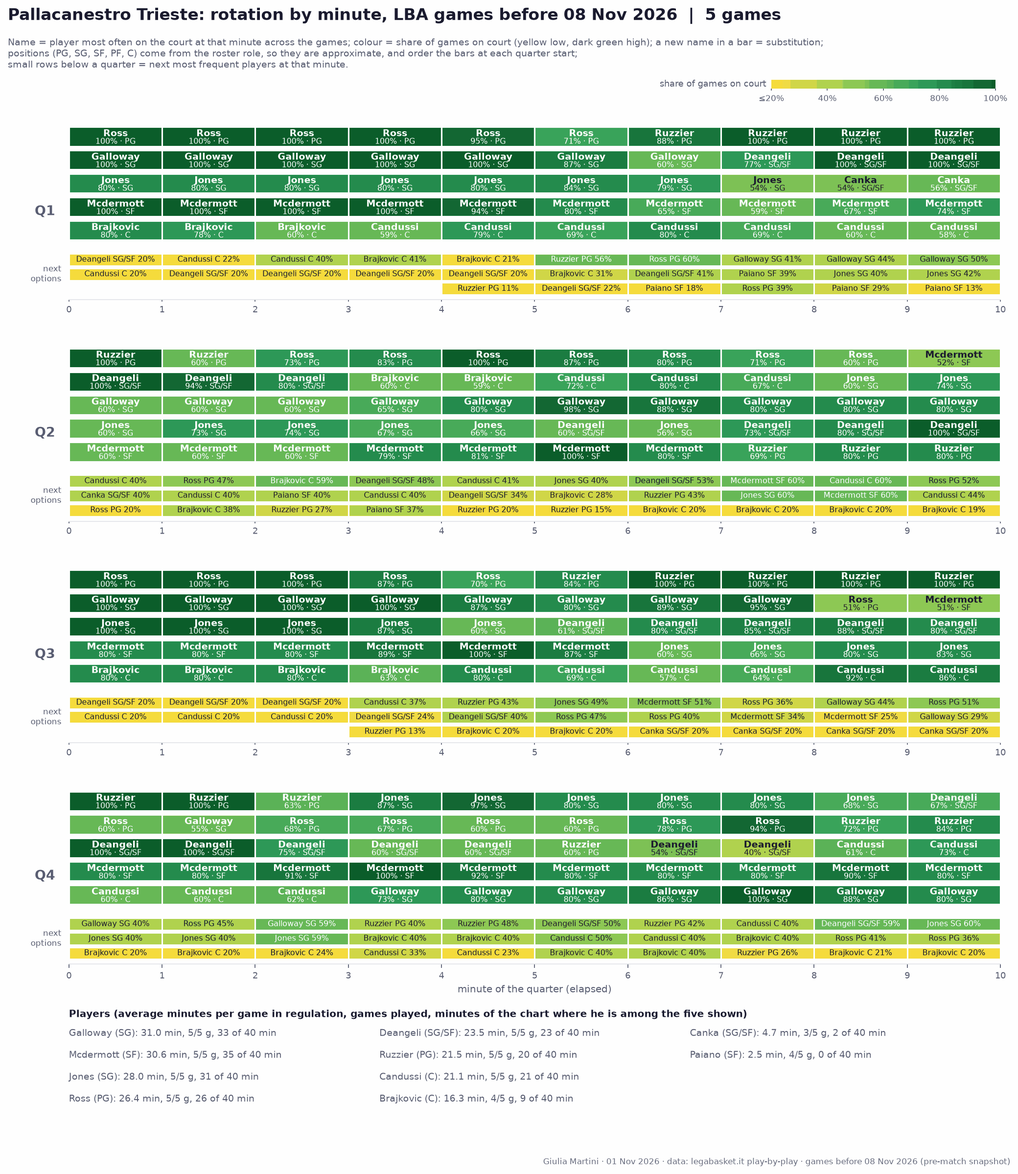
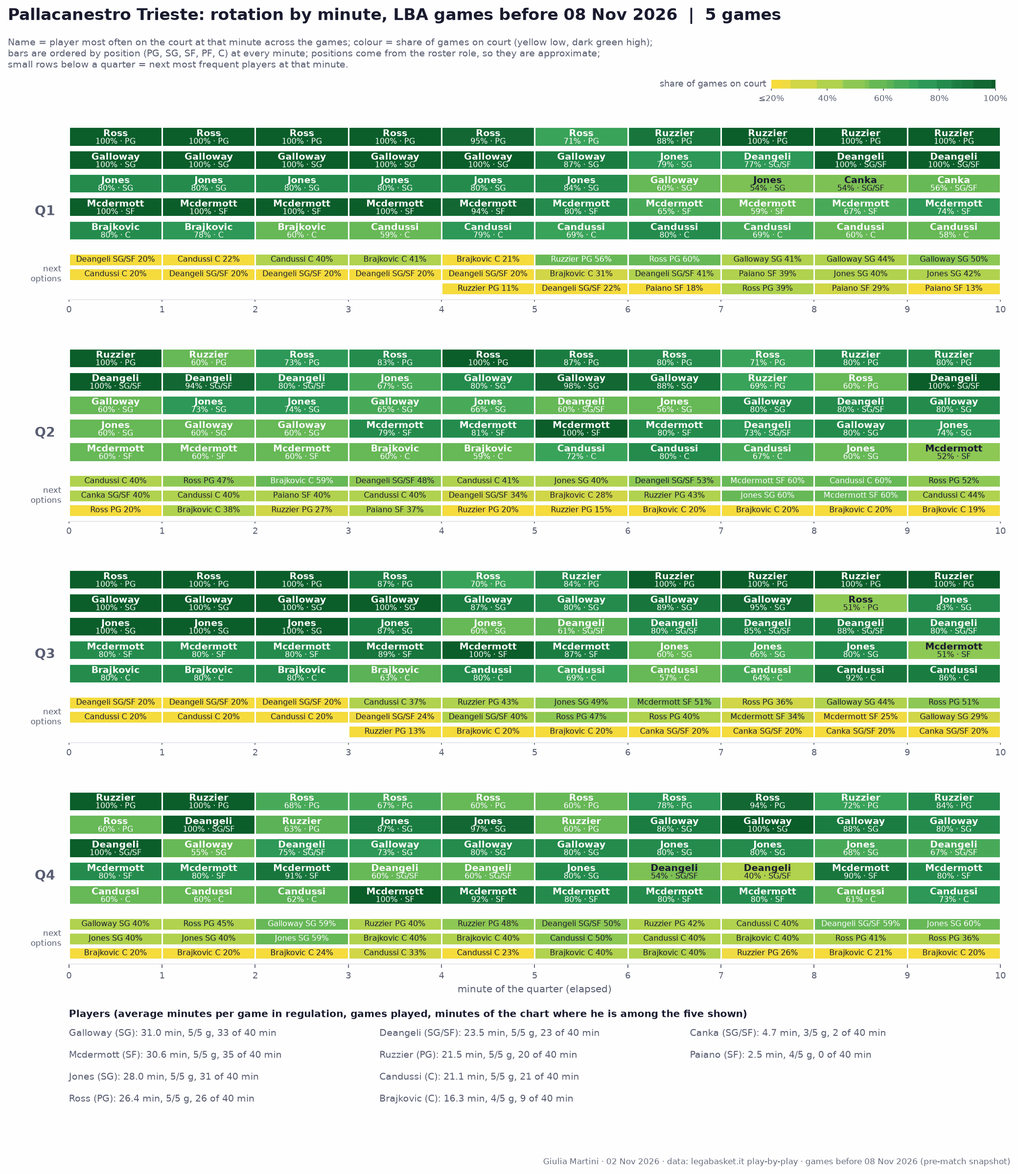
Rotation by minute: bars ordered by role at every minute; interactive HTML version with role-based alternatives, shown on the PAOK and Trieste pages

diff --git a/reports/matchup_Paok_Thessaloniki_vs_BC_Roma_before_2026-11-03/13_rotation_by_minute.html b/reports/matchup_Paok_Thessaloniki_vs_BC_Roma_before_2026-11-03/13_rotation_by_minute.html
@@ -1,0 +1,63 @@
+<!doctype html>
+<html lang="en"><head><meta charset="utf-8"><title>Paok Thessaloniki: rotation by minute, EuroCup games before 03 Nov 2026 | 5 games</title>
+<style>
+body{font:13px system-ui,sans-serif;color:#1a1a2e;margin:16px 24px;background:#fff}
+h1{font-size:20px;margin:0 0 4px}p.note{color:#555a6e;margin:0 0 14px;max-width:900px}
+.q{display:grid;grid-template-columns:36px repeat(10,1fr);gap:2px;margin-bottom:18px}
+.ql{font-weight:700;font-size:15px;color:#555a6e;display:flex;align-items:center}
+.cell{border-radius:3px;padding:5px 2px;text-align:center;cursor:default;line-height:1.25;min-width:0;overflow:hidden}
+.cell b{display:block;font-size:12px;white-space:nowrap}.cell span{font-size:10px;opacity:.9}
+.cell.dim{opacity:.25}.cell.same{outline:3px solid #1a1a2e;outline-offset:-2px}
+.mh{grid-column:2/-1;display:grid;grid-template-columns:repeat(10,1fr);color:#777;font-size:10px;text-align:center}
+#tip{position:fixed;display:none;background:#fff;border:1px solid #c9ccd6;border-radius:6px;padding:8px 10px;
+box-shadow:0 4px 16px rgba(0,0,0,.2);pointer-events:none;z-index:9;min-width:230px;max-width:290px}
+#tip h3{margin:0 0 2px;font-size:13px}#tip .sub{color:#777;font-size:11px;margin-bottom:6px}
+#tip table{border-collapse:collapse;width:100%}#tip td{padding:2px 4px;font-size:12px}
+#tip td.p{color:#555a6e;width:46px}#tip td.s{text-align:right;width:44px;font-variant-numeric:tabular-nums}
+#tip tr.same td{font-weight:700}#tip .bar{display:inline-block;height:8px;border-radius:2px;vertical-align:middle}
+.legend{display:flex;align-items:center;gap:6px;margin:0 0 14px;color:#555a6e;font-size:11px}
+.legend i{display:inline-block;width:160px;height:8px;background:linear-gradient(90deg,rgb(247,220,60),rgb(155,207,83),rgb(46,158,91),rgb(11,93,42))}
+</style></head><body>
+<h1>Paok Thessaloniki: rotation by minute, EuroCup games before 03 Nov 2026 | 5 games</h1>
+<p class="note">Rows = positions (PG, SG, SF, PF, C) at every minute; colour = share of games on court. Hover a player: the
+tooltip lists the other options at that minute, same role first (then neighbouring roles), with their share of games on court.
+Positions come from the roster role, so they are approximate.</p>
+<div class="legend">20% or less <i></i> 100%</div><div id="quarters"></div><div id="tip"></div>
+<script>
+const D={"quarters": [[{"lanes": [["Calathes", 0.6], ["Mitrou Long", 0.4], ["Osman", 1.0], ["Gray", 1.0], ["Alexander", 0.8]], "alts": [["Hudgins", 0.4], ["Foster", 0.2], ["Tyree", 0.2], ["Bazinas", 0.2], ["Motiejunas", 0.2]]}, {"lanes": [["Calathes", 0.6], ["Mitrou Long", 0.4], ["Osman", 1.0], ["Gray", 1.0], ["Alexander", 0.8]], "alts": [["Hudgins", 0.4], ["Foster", 0.2], ["Tyree", 0.2], ["Bazinas", 0.2], ["Motiejunas", 0.2]]}, {"lanes": [["Calathes", 0.6], ["Mitrou Long", 0.4], ["Osman", 1.0], ["Gray", 1.0], ["Alexander", 0.8]], "alts": [["Hudgins", 0.4], ["Foster", 0.2], ["Tyree", 0.2], ["Bazinas", 0.2], ["Motiejunas", 0.2]]}, {"lanes": [["Calathes", 0.6], ["Mitrou Long", 0.4], ["Osman", 1.0], ["Gray", 0.82], ["Alexander", 0.8]], "alts": [["Foster", 0.32333333333333336], ["Hudgins", 0.27666666666666667], ["Tyree", 0.2], ["Bazinas", 0.2], ["Moore", 0.18], ["Chougkaz", 0.18], ["Motiejunas", 0.02]]}, {"lanes": [["Calathes", 0.6033333333333333], ["Foster", 0.4], ["Osman", 1.0], ["Gray", 0.8], ["Alexander", 0.8]], "alts": [["Mitrou Long", 0.4], ["Bazinas", 0.22666666666666666], ["Tyree", 0.2], ["Moore", 0.2], ["Chougkaz", 0.2], ["Hudgins", 0.16999999999999998]]}, {"lanes": [["Foster", 0.4766666666666667], ["Mitrou Long", 0.4], ["Osman", 1.0], ["Gray", 0.7866666666666666], ["Alexander", 0.63]], "alts": [["Bazinas", 0.4], ["Moore", 0.37], ["Hudgins", 0.36333333333333334], ["Calathes", 0.23666666666666666], ["Chougkaz", 0.2], ["Tyree", 0.12333333333333334], ["Persidis", 0.013333333333333332]]}, {"lanes": [["Hudgins", 0.4666666666666667], ["Foster", 0.6166666666666667], ["Osman", 0.9333333333333333], ["Gray", 0.5933333333333334], ["Alexander", 0.5333333333333333]], "alts": [["Moore", 0.4], ["Bazinas", 0.4], ["Mitrou Long", 0.27], ["Calathes", 0.2], ["Chougkaz", 0.2], ["Persidis", 0.2], ["Tyree", 0.11333333333333333], ["Motiejunas", 0.07333333333333333]]}, {"lanes": [["Hudgins", 0.6], ["Foster", 0.6], ["Mitrou Long", 0.4333333333333333], ["Osman", 0.53], ["Moore", 0.48666666666666664]], "alts": [["Motiejunas", 0.4], ["Tyree", 0.32333333333333336], ["Alexander", 0.31333333333333335], ["Bazinas", 0.31333333333333335], ["Gray", 0.3066666666666667], ["Chougkaz", 0.29333333333333333], ["Calathes", 0.2], ["Persidis", 0.2]]}, {"lanes": [["Tyree", 0.6799999999999999], ["Hudgins", 0.6], ["Foster", 0.6799999999999999], ["Mitrou Long", 0.49000000000000005], ["Moore", 0.5733333333333334]], "alts": [["Chougkaz", 0.4], ["Motiejunas", 0.4], ["Osman", 0.22999999999999998], ["Alexander", 0.22666666666666666], ["Calathes", 0.2], ["Bazinas", 0.2], ["Persidis", 0.2], ["Gray", 0.12]]}, {"lanes": [["Tyree", 0.6966666666666667], ["Foster", 0.8], ["Calathes", 0.5599999999999999], ["Chougkaz", 0.5333333333333333], ["Moore", 0.4666666666666667]], "alts": [["Mitrou Long", 0.4], ["Motiejunas", 0.4], ["Hudgins", 0.3433333333333333], ["Osman", 0.2], ["Alexander", 0.2], ["Bazinas", 0.2], ["Persidis", 0.2]]}], [{"lanes": [["Tyree", 0.6], ["Foster", 0.8], ["Calathes", 0.8], ["Mitrou Long", 0.6], ["Chougkaz", 0.6]], "alts": [["Alexander", 0.43], ["Moore", 0.4], ["Osman", 0.2033333333333333], ["Bazinas", 0.2], ["Persidis", 0.19666666666666666], ["Motiejunas", 0.16999999999999998]]}, {"lanes": [["Tyree", 0.71], ["Foster", 0.8], ["Calathes", 0.6900000000000001], ["Mitrou Long", 0.6], ["Alexander", 0.7733333333333333]], "alts": [["Chougkaz", 0.5333333333333333], ["Moore", 0.22666666666666666], ["Osman", 0.2], ["Bazinas", 0.2], ["Persidis", 0.2], ["Gray", 0.06666666666666667]]}, {"lanes": [["Tyree", 0.7266666666666667], ["Foster", 0.8], ["Calathes", 0.6], ["Mitrou Long", 0.49333333333333335], ["Alexander", 0.8]], "alts": [["Gray", 0.33333333333333337], ["Chougkaz", 0.29], ["Osman", 0.2733333333333333], ["Moore", 0.2], ["Bazinas", 0.2], ["Persidis", 0.17666666666666667], ["Hudgins", 0.10666666666666666]]}, {"lanes": [["Tyree", 0.61], ["Foster", 0.79], ["Calathes", 0.6], ["Gray", 0.6], ["Alexander", 0.8866666666666667]], "alts": [["Osman", 0.4], ["Mitrou Long", 0.4], ["Hudgins", 0.2], ["Bazinas", 0.2], ["Chougkaz", 0.2], ["Moore", 0.11333333333333333]]}, {"lanes": [["Tyree", 0.6], ["Foster", 0.5966666666666667], ["Osman", 0.6766666666666666], ["Gray", 0.65], ["Alexander", 1.0]], "alts": [["Mitrou Long", 0.45666666666666667], ["Calathes", 0.45], ["Hudgins", 0.4066666666666666], ["Chougkaz", 0.15], ["Bazinas", 0.013333333333333332]]}, {"lanes": [["Tyree", 0.6], ["Hudgins", 0.6], ["Osman", 0.8], ["Gray", 0.6833333333333333], ["Alexander", 1.0]], "alts": [["Calathes", 0.51], ["Foster", 0.4], ["Mitrou Long", 0.29], ["Chougkaz", 0.11666666666666667]]}, {"lanes": [["Hudgins", 0.6], ["Mitrou Long", 0.5433333333333333], ["Osman", 0.9533333333333334], ["Gray", 0.6], ["Alexander", 0.7066666666666667]], "alts": [["Foster", 0.4333333333333333], ["Tyree", 0.27], ["Calathes", 0.24666666666666667], ["Moore", 0.2066666666666667], ["Chougkaz", 0.2], ["Bazinas", 0.15333333333333335], ["Motiejunas", 0.08666666666666667]]}, {"lanes": [["Hudgins", 0.6], ["Mitrou Long", 0.6], ["Osman", 1.0], ["Gray", 0.49000000000000005], ["Moore", 0.47333333333333333]], "alts": [["Foster", 0.35], ["Alexander", 0.32666666666666666], ["Chougkaz", 0.31], ["Tyree", 0.25], ["Calathes", 0.2], ["Bazinas", 0.2], ["Motiejunas", 0.2]]}, {"lanes": [["Hudgins", 0.6], ["Tyree", 0.53], ["Mitrou Long", 0.5133333333333334], ["Osman", 0.8699999999999999], ["Moore", 0.6433333333333333]], "alts": [["Gray", 0.4], ["Chougkaz", 0.4], ["Foster", 0.2866666666666667], ["Calathes", 0.24333333333333332], ["Motiejunas", 0.24333333333333332], ["Bazinas", 0.15666666666666668], ["Alexander", 0.11333333333333333]]}, {"lanes": [["Tyree", 0.5833333333333333], ["Hudgins", 0.43], ["Calathes", 0.6433333333333333], ["Osman", 0.8], ["Moore", 0.5433333333333333]], "alts": [["Gray", 0.4], ["Foster", 0.4], ["Chougkaz", 0.4], ["Motiejunas", 0.4], ["Mitrou Long", 0.2866666666666667], ["Alexander", 0.056666666666666664], ["Persidis", 0.056666666666666664]]}], [{"lanes": [["Foster", 0.6], ["Calathes", 0.6], ["Osman", 1.0], ["Gray", 0.8], ["Alexander", 0.6]], "alts": [["Tyree", 0.4], ["Moore", 0.4], ["Hudgins", 0.4], ["Chougkaz", 0.2]]}, {"lanes": [["Foster", 0.6133333333333334], ["Calathes", 0.6], ["Osman", 1.0], ["Gray", 0.8], ["Alexander", 0.6]], "alts": [["Moore", 0.4], ["Hudgins", 0.4], ["Tyree", 0.38666666666666666], ["Chougkaz", 0.2]]}, {"lanes": [["Foster", 0.8], ["Calathes", 0.6], ["Osman", 1.0], ["Gray", 0.8], ["Alexander", 0.4966666666666667]], "alts": [["Moore", 0.4], ["Hudgins", 0.2966666666666667], ["Tyree", 0.2], ["Chougkaz", 0.2], ["Bazinas", 0.10333333333333335], ["Motiejunas", 0.10333333333333335]]}, {"lanes": [["Foster", 0.8], ["Calathes", 0.6166666666666667], ["Osman", 1.0], ["Gray", 0.8], ["Moore", 0.43666666666666665]], "alts": [["Alexander", 0.36333333333333334], ["Bazinas", 0.21000000000000002], ["Tyree", 0.2], ["Chougkaz", 0.2], ["Motiejunas", 0.2], ["Hudgins", 0.17333333333333334]]}, {"lanes": [["Foster", 0.8], ["Calathes", 0.44000000000000006], ["Osman", 1.0], ["Gray", 0.8], ["Moore", 0.8]], "alts": [["Bazinas", 0.4], ["Tyree", 0.2], ["Chougkaz", 0.2], ["Motiejunas", 0.2], ["Hudgins", 0.16]]}, {"lanes": [["Tyree", 0.5433333333333333], ["Foster", 0.64], ["Gray", 0.97], ["Osman", 0.6666666666666667], ["Moore", 0.8066666666666666]], "alts": [["Calathes", 0.4], ["Bazinas", 0.4], ["Hudgins", 0.2], ["Motiejunas", 0.16], ["Persidis", 0.11000000000000001], ["Mitrou Long", 0.04], ["Alexander", 0.03333333333333333], ["Chougkaz", 0.03]]}, {"lanes": [["Tyree", 0.5833333333333333], ["Foster", 0.6166666666666667], ["Gray", 1.0], ["Osman", 0.4], ["Moore", 0.8]], "alts": [["Bazinas", 0.4], ["Calathes", 0.38333333333333336], ["Mitrou Long", 0.21666666666666665], ["Alexander", 0.2], ["Hudgins", 0.2], ["Persidis", 0.2]]}, {"lanes": [["Tyree", 0.4], ["Foster", 0.8], ["Gray", 0.8099999999999999], ["Osman", 0.5133333333333334], ["Moore", 0.8]], "alts": [["Mitrou Long", 0.4], ["Bazinas", 0.4], ["Alexander", 0.2], ["Calathes", 0.2], ["Hudgins", 0.2], ["Persidis", 0.2], ["Chougkaz", 0.07666666666666667]]}, {"lanes": [["Tyree", 0.4533333333333333], ["Mitrou Long", 0.7533333333333333], ["Osman", 0.6733333333333333], ["Gray", 0.47333333333333333], ["Moore", 0.6566666666666666]], "alts": [["Foster", 0.44666666666666666], ["Bazinas", 0.4], ["Alexander", 0.2], ["Calathes", 0.2], ["Hudgins", 0.2], ["Chougkaz", 0.2], ["Persidis", 0.2], ["Motiejunas", 0.14333333333333334]]}, {"lanes": [["Tyree", 0.6], ["Mitrou Long", 0.9533333333333334], ["Bazinas", 0.4], ["Osman", 0.8], ["Moore", 0.6]], "alts": [["Foster", 0.24666666666666667], ["Gray", 0.2], ["Alexander", 0.2], ["Calathes", 0.2], ["Hudgins", 0.2], ["Chougkaz", 0.2], ["Motiejunas", 0.2], ["Persidis", 0.2]]}], [{"lanes": [["Tyree", 0.6], ["Mitrou Long", 0.6], ["Osman", 0.8], ["Gray", 0.4], ["Moore", 0.61]], "alts": [["Calathes", 0.4], ["Bazinas", 0.4], ["Alexander", 0.39], ["Foster", 0.2], ["Hudgins", 0.2], ["Chougkaz", 0.2], ["Persidis", 0.2]]}, {"lanes": [["Tyree", 0.6], ["Mitrou Long", 0.5333333333333333], ["Osman", 0.8], ["Gray", 0.45666666666666667], ["Moore", 0.8]], "alts": [["Calathes", 0.4], ["Bazinas", 0.3433333333333333], ["Foster", 0.26666666666666666], ["Hudgins", 0.2566666666666667], ["Alexander", 0.2], ["Persidis", 0.2], ["Chougkaz", 0.14333333333333334]]}, {"lanes": [["Tyree", 0.6], ["Calathes", 0.4666666666666667], ["Osman", 0.8], ["Gray", 0.6599999999999999], ["Moore", 0.8]], "alts": [["Hudgins", 0.45999999999999996], ["Foster", 0.4], ["Mitrou Long", 0.4], ["Alexander", 0.2], ["Persidis", 0.13999999999999999], ["Bazinas", 0.07333333333333333]]}, {"lanes": [["Tyree", 0.7933333333333333], ["Foster", 0.5833333333333333], ["Gray", 0.8], ["Osman", 0.64], ["Moore", 0.6066666666666667]], "alts": [["Hudgins", 0.44000000000000006], ["Alexander", 0.3933333333333333], ["Mitrou Long", 0.37666666666666665], ["Calathes", 0.36666666666666664]]}, {"lanes": [["Tyree", 0.6666666666666667], ["Foster", 0.8366666666666667], ["Osman", 0.9099999999999999], ["Gray", 0.8], ["Moore", 0.6]], "alts": [["Alexander", 0.4], ["Hudgins", 0.4], ["Calathes", 0.2], ["Mitrou Long", 0.18666666666666668]]}, {"lanes": [["Tyree", 0.5599999999999999], ["Foster", 1.0], ["Osman", 1.0], ["Gray", 0.8], ["Moore", 0.6]], "alts": [["Alexander", 0.4], ["Hudgins", 0.4], ["Calathes", 0.24]]}, {"lanes": [["Tyree", 0.6366666666666666], ["Foster", 1.0], ["Osman", 0.9], ["Gray", 0.8], ["Moore", 0.6]], "alts": [["Alexander", 0.4], ["Hudgins", 0.33666666666666667], ["Calathes", 0.32666666666666666]]}, {"lanes": [["Tyree", 0.8], ["Foster", 1.0], ["Osman", 0.93], ["Gray", 0.67], ["Moore", 0.64]], "alts": [["Calathes", 0.4966666666666667], ["Alexander", 0.2633333333333333], ["Hudgins", 0.2]]}, {"lanes": [["Tyree", 0.93], ["Foster", 1.0], ["Calathes", 0.6], ["Osman", 1.0], ["Gray", 0.6]], "alts": [["Alexander", 0.4], ["Moore", 0.4], ["Hudgins", 0.05333333333333333], ["Bazinas", 0.016666666666666666]]}, {"lanes": [["Tyree", 0.9866666666666667], ["Foster", 0.9866666666666667], ["Calathes", 0.4533333333333333], ["Osman", 0.9866666666666667], ["Gray", 0.5866666666666667]], "alts": [["Alexander", 0.39666666666666667], ["Moore", 0.23666666666666666], ["Bazinas", 0.15666666666666668], ["Mitrou Long", 0.13333333333333333], ["Hudgins", 0.01]]}]], "pos": {"Hudgins": "PG", "Calathes": "SG", "Gray": "PF", "Osman": "PF", "Alexander": "C", "Bazinas": "SG", "Tyree": "PG", "Persidis": "SF", "Moore": "C", "Mitrou Long": "SG", "Foster": "SG", "Motiejunas": "C", "Chougkaz": "PF"}, "positions": ["PG", "SG", "SF", "PF", "C"], "low": 0.2, "darkBelow": 0.55, "stops": [[247, 220, 60], [155, 207, 83], [46, 158, 91], [11, 93, 42]]};
+const quarters=document.getElementById('quarters'),tip=document.getElementById('tip');
+const colour=v=>{const t=Math.max(0,Math.min(1,(v-D.low)/(1-D.low))),n=D.stops.length-1,i=Math.min(n-1,Math.floor(t*n)),f=t*n-i,
+a=D.stops[i],b=D.stops[i+1];return'rgb('+a.map((x,k)=>Math.round(x+(b[k]-x)*f)).join(',')+')'};
+const dist=(a,b)=>{if(!a||!b)return 9;return Math.min(...a.map(x=>Math.min(...b.map(y=>Math.abs(x-y)))))};
+const idx=l=>l?l.split('/').map(p=>D.positions.indexOf(p)):null;
+D.quarters.forEach((q,qi)=>{
+ const grid=document.createElement('div');grid.className='q';
+ const lab=document.createElement('div');lab.className='ql';lab.textContent='Q'+(qi+1);
+ const head=document.createElement('div');head.className='mh';
+ for(let k=0;k<10;k++){const s=document.createElement('span');s.textContent=k+'-'+(k+1);head.appendChild(s)}
+ grid.append(document.createElement('div'),head);
+ for(let lane=0;lane<5;lane++){
+  const l=document.createElement('div');l.className='ql';l.style.fontSize='11px';grid.appendChild(l);
+  q.forEach((minute,k)=>{
+   const [name,val]=minute.lanes[lane],c=document.createElement('div');c.className='cell';c.dataset.p=name;
+   c.style.background=colour(val);c.style.color=val<D.darkBelow?'#1a1a2e':'#fff';
+   c.innerHTML='<b>'+name+'</b><span>'+Math.round(val*100)+'%'+(D.pos[name]?' · '+D.pos[name]:'')+'</span>';
+   c.onmousemove=e=>show(e,c,name,val,minute,qi*10+k);c.onmouseleave=hide;grid.appendChild(c)});
+ }
+ quarters.appendChild(grid)});
+function show(e,cell,name,val,minute,m){
+ const me=idx(D.pos[name]);
+ const alts=val>=0.995?[]:minute.alts.map(([p,s])=>({p,s,d:dist(me,idx(D.pos[p]))})).sort((a,b)=>a.d-b.d||b.s-a.s);
+ const rows=alts.map(a=>'<tr'+(a.d===0?' class="same"':'')+'><td>'+a.p+'</td><td class="p">'+(D.pos[a.p]||'')+'</td><td class="s">'+
+ Math.round(a.s*100)+'%</td><td><span class="bar" style="width:'+Math.round(a.s*60)+'px;background:'+colour(a.s)+'"></span></td></tr>').join('');
+ const qn=Math.floor(m/10)+1,mn=m%10;
+ tip.innerHTML='<h3>'+name+' '+(D.pos[name]||'')+' - '+Math.round(val*100)+'%</h3><div class="sub">Q'+qn+', minute '+mn+'-'+(mn+1)+
+ (rows?'. Alternatives, same role first:</div><table>'+rows+'</table>':'. On court in every game: no alternatives.</div>');
+ document.querySelectorAll('.cell').forEach(x=>x.classList.toggle('dim',x.dataset.p!==name));
+ tip.style.display='block';
+ const w=tip.offsetWidth,h=tip.offsetHeight;
+ tip.style.left=Math.min(e.clientX+14,innerWidth-w-8)+'px';tip.style.top=Math.min(e.clientY+14,innerHeight-h-8)+'px';}
+const fit=()=>{try{window.frameElement.style.height=document.documentElement.scrollHeight+'px'}catch(e){}};
+fit();addEventListener('resize',fit);
+function hide(){tip.style.display='none';document.querySelectorAll('.cell').forEach(x=>x.classList.remove('dim'))}
+</script></body></html>

diff --git a/reports/matchup_Pallacanestro_Trieste_vs_BC_Roma_before_2026-11-08/13_rotation_by_minute.html b/reports/matchup_Pallacanestro_Trieste_vs_BC_Roma_before_2026-11-08/13_rotation_by_minute.html
@@ -1,0 +1,63 @@
+<!doctype html>
+<html lang="en"><head><meta charset="utf-8"><title>Pallacanestro Trieste: rotation by minute, LBA games before 08 Nov 2026 | 5 games</title>
+<style>
+body{font:13px system-ui,sans-serif;color:#1a1a2e;margin:16px 24px;background:#fff}
+h1{font-size:20px;margin:0 0 4px}p.note{color:#555a6e;margin:0 0 14px;max-width:900px}
+.q{display:grid;grid-template-columns:36px repeat(10,1fr);gap:2px;margin-bottom:18px}
+.ql{font-weight:700;font-size:15px;color:#555a6e;display:flex;align-items:center}
+.cell{border-radius:3px;padding:5px 2px;text-align:center;cursor:default;line-height:1.25;min-width:0;overflow:hidden}
+.cell b{display:block;font-size:12px;white-space:nowrap}.cell span{font-size:10px;opacity:.9}
+.cell.dim{opacity:.25}.cell.same{outline:3px solid #1a1a2e;outline-offset:-2px}
+.mh{grid-column:2/-1;display:grid;grid-template-columns:repeat(10,1fr);color:#777;font-size:10px;text-align:center}
+#tip{position:fixed;display:none;background:#fff;border:1px solid #c9ccd6;border-radius:6px;padding:8px 10px;
+box-shadow:0 4px 16px rgba(0,0,0,.2);pointer-events:none;z-index:9;min-width:230px;max-width:290px}
+#tip h3{margin:0 0 2px;font-size:13px}#tip .sub{color:#777;font-size:11px;margin-bottom:6px}
+#tip table{border-collapse:collapse;width:100%}#tip td{padding:2px 4px;font-size:12px}
+#tip td.p{color:#555a6e;width:46px}#tip td.s{text-align:right;width:44px;font-variant-numeric:tabular-nums}
+#tip tr.same td{font-weight:700}#tip .bar{display:inline-block;height:8px;border-radius:2px;vertical-align:middle}
+.legend{display:flex;align-items:center;gap:6px;margin:0 0 14px;color:#555a6e;font-size:11px}
+.legend i{display:inline-block;width:160px;height:8px;background:linear-gradient(90deg,rgb(247,220,60),rgb(155,207,83),rgb(46,158,91),rgb(11,93,42))}
+</style></head><body>
+<h1>Pallacanestro Trieste: rotation by minute, LBA games before 08 Nov 2026 | 5 games</h1>
+<p class="note">Rows = positions (PG, SG, SF, PF, C) at every minute; colour = share of games on court. Hover a player: the
+tooltip lists the other options at that minute, same role first (then neighbouring roles), with their share of games on court.
+Positions come from the roster role, so they are approximate.</p>
+<div class="legend">20% or less <i></i> 100%</div><div id="quarters"></div><div id="tip"></div>
+<script>
+const D={"quarters": [[{"lanes": [["Ross", 1.0], ["Galloway", 1.0], ["Jones", 0.8], ["Mcdermott", 1.0], ["Brajkovic", 0.8]], "alts": [["Deangeli", 0.2], ["Candussi", 0.2]]}, {"lanes": [["Ross", 1.0], ["Galloway", 1.0], ["Jones", 0.8], ["Mcdermott", 1.0], ["Brajkovic", 0.78]], "alts": [["Candussi", 0.22000000000000003], ["Deangeli", 0.2]]}, {"lanes": [["Ross", 1.0], ["Galloway", 1.0], ["Jones", 0.8], ["Mcdermott", 1.0], ["Brajkovic", 0.6]], "alts": [["Candussi", 0.4], ["Deangeli", 0.2]]}, {"lanes": [["Ross", 1.0], ["Galloway", 1.0], ["Jones", 0.8], ["Mcdermott", 1.0], ["Candussi", 0.5900000000000001]], "alts": [["Brajkovic", 0.41], ["Deangeli", 0.2]]}, {"lanes": [["Ross", 0.9533333333333334], ["Galloway", 1.0], ["Jones", 0.8], ["Mcdermott", 0.9366666666666668], ["Candussi", 0.79]], "alts": [["Brajkovic", 0.21000000000000002], ["Deangeli", 0.2], ["Ruzzier", 0.11000000000000001]]}, {"lanes": [["Ross", 0.71], ["Galloway", 0.8733333333333333], ["Jones", 0.8400000000000001], ["Mcdermott", 0.8], ["Candussi", 0.6933333333333334]], "alts": [["Ruzzier", 0.5599999999999999], ["Brajkovic", 0.3066666666666667], ["Deangeli", 0.21666666666666665]]}, {"lanes": [["Ruzzier", 0.8833333333333334], ["Jones", 0.7866666666666666], ["Galloway", 0.6], ["Mcdermott", 0.6533333333333333], ["Candussi", 0.8]], "alts": [["Ross", 0.6], ["Deangeli", 0.4133333333333334], ["Paiano", 0.17666666666666667], ["Canka", 0.06333333333333332], ["Brajkovic", 0.023333333333333334]]}, {"lanes": [["Ruzzier", 1.0], ["Deangeli", 0.77], ["Jones", 0.54], ["Mcdermott", 0.5866666666666667], ["Candussi", 0.6900000000000001]], "alts": [["Galloway", 0.4066666666666666], ["Paiano", 0.3933333333333333], ["Ross", 0.38666666666666666], ["Canka", 0.22666666666666666]]}, {"lanes": [["Ruzzier", 1.0], ["Deangeli", 1.0], ["Canka", 0.54], ["Mcdermott", 0.67], ["Candussi", 0.6]], "alts": [["Galloway", 0.44333333333333336], ["Jones", 0.4], ["Paiano", 0.2866666666666667], ["Ross", 0.06]]}, {"lanes": [["Ruzzier", 1.0], ["Deangeli", 1.0], ["Canka", 0.5633333333333334], ["Mcdermott", 0.74], ["Candussi", 0.5833333333333333]], "alts": [["Galloway", 0.4966666666666667], ["Jones", 0.4166666666666667], ["Paiano", 0.13333333333333333], ["Ross", 0.06666666666666667]]}], [{"lanes": [["Ruzzier", 1.0], ["Deangeli", 1.0], ["Galloway", 0.6], ["Jones", 0.6], ["Mcdermott", 0.6]], "alts": [["Candussi", 0.4], ["Canka", 0.4], ["Ross", 0.2], ["Brajkovic", 0.2]]}, {"lanes": [["Ruzzier", 0.5966666666666667], ["Deangeli", 0.9433333333333334], ["Jones", 0.7333333333333333], ["Galloway", 0.6], ["Mcdermott", 0.6]], "alts": [["Ross", 0.47000000000000003], ["Candussi", 0.4], ["Brajkovic", 0.38], ["Canka", 0.22000000000000003], ["Paiano", 0.056666666666666664]]}, {"lanes": [["Ross", 0.7266666666666667], ["Deangeli", 0.8], ["Jones", 0.7433333333333334], ["Galloway", 0.6], ["Mcdermott", 0.6]], "alts": [["Brajkovic", 0.5866666666666667], ["Paiano", 0.4], ["Ruzzier", 0.2733333333333333], ["Candussi", 0.27]]}, {"lanes": [["Ross", 0.8300000000000001], ["Jones", 0.6733333333333333], ["Galloway", 0.65], ["Mcdermott", 0.7933333333333333], ["Brajkovic", 0.6]], "alts": [["Deangeli", 0.4833333333333333], ["Candussi", 0.4], ["Paiano", 0.37], ["Ruzzier", 0.2]]}, {"lanes": [["Ross", 1.0], ["Galloway", 0.8], ["Jones", 0.6566666666666666], ["Mcdermott", 0.8099999999999999], ["Brajkovic", 0.5900000000000001]], "alts": [["Candussi", 0.41], ["Deangeli", 0.3433333333333333], ["Ruzzier", 0.2], ["Paiano", 0.19]]}, {"lanes": [["Ross", 0.8666666666666666], ["Galloway", 0.9800000000000001], ["Deangeli", 0.6], ["Mcdermott", 1.0], ["Candussi", 0.7166666666666667]], "alts": [["Jones", 0.4], ["Brajkovic", 0.2833333333333333], ["Ruzzier", 0.15333333333333335]]}, {"lanes": [["Ross", 0.8], ["Galloway", 0.8833333333333334], ["Jones", 0.5599999999999999], ["Mcdermott", 0.8033333333333333], ["Candussi", 0.8]], "alts": [["Deangeli", 0.5266666666666666], ["Ruzzier", 0.42666666666666664], ["Brajkovic", 0.2]]}, {"lanes": [["Ross", 0.7066666666666667], ["Ruzzier", 0.6933333333333334], ["Galloway", 0.8], ["Deangeli", 0.73], ["Candussi", 0.67]], "alts": [["Mcdermott", 0.6], ["Jones", 0.6], ["Brajkovic", 0.2]]}, {"lanes": [["Ruzzier", 0.8], ["Ross", 0.6], ["Deangeli", 0.8033333333333333], ["Galloway", 0.8], ["Jones", 0.6]], "alts": [["Candussi", 0.6], ["Mcdermott", 0.5966666666666667], ["Brajkovic", 0.2]]}, {"lanes": [["Ruzzier", 0.8], ["Deangeli", 1.0], ["Galloway", 0.8], ["Jones", 0.74], ["Mcdermott", 0.52]], "alts": [["Ross", 0.5166666666666667], ["Candussi", 0.43666666666666665], ["Brajkovic", 0.18666666666666668]]}], [{"lanes": [["Ross", 1.0], ["Galloway", 1.0], ["Jones", 1.0], ["Mcdermott", 0.8], ["Brajkovic", 0.8]], "alts": [["Deangeli", 0.2], ["Candussi", 0.2]]}, {"lanes": [["Ross", 1.0], ["Galloway", 1.0], ["Jones", 1.0], ["Mcdermott", 0.8], ["Brajkovic", 0.8]], "alts": [["Deangeli", 0.2], ["Candussi", 0.2]]}, {"lanes": [["Ross", 1.0], ["Galloway", 1.0], ["Jones", 1.0], ["Mcdermott", 0.8], ["Brajkovic", 0.8]], "alts": [["Deangeli", 0.2], ["Candussi", 0.2]]}, {"lanes": [["Ross", 0.8699999999999999], ["Galloway", 1.0], ["Jones", 0.8666666666666666], ["Mcdermott", 0.89], ["Brajkovic", 0.6266666666666667]], "alts": [["Candussi", 0.37333333333333335], ["Deangeli", 0.24333333333333332], ["Ruzzier", 0.13]]}, {"lanes": [["Ross", 0.6966666666666667], ["Galloway", 0.8699999999999999], ["Jones", 0.6], ["Mcdermott", 1.0], ["Candussi", 0.7966666666666666]], "alts": [["Ruzzier", 0.4333333333333333], ["Deangeli", 0.4], ["Brajkovic", 0.2033333333333333]]}, {"lanes": [["Ruzzier", 0.8433333333333334], ["Galloway", 0.8], ["Deangeli", 0.6133333333333334], ["Mcdermott", 0.8699999999999999], ["Candussi", 0.6933333333333334]], "alts": [["Jones", 0.49333333333333335], ["Ross", 0.4666666666666667], ["Brajkovic", 0.2], ["Canka", 0.02]]}, {"lanes": [["Ruzzier", 1.0], ["Galloway", 0.89], ["Deangeli", 0.8], ["Jones", 0.6], ["Candussi", 0.5733333333333334]], "alts": [["Mcdermott", 0.51], ["Ross", 0.4], ["Canka", 0.2], ["Brajkovic", 0.026666666666666665]]}, {"lanes": [["Ruzzier", 1.0], ["Galloway", 0.9466666666666667], ["Deangeli", 0.8533333333333333], ["Jones", 0.6599999999999999], ["Candussi", 0.64]], "alts": [["Ross", 0.36], ["Mcdermott", 0.33999999999999997], ["Canka", 0.2]]}, {"lanes": [["Ruzzier", 1.0], ["Ross", 0.51], ["Deangeli", 0.8800000000000001], ["Jones", 0.8], ["Candussi", 0.9199999999999999]], "alts": [["Galloway", 0.44333333333333336], ["Mcdermott", 0.24666666666666667], ["Canka", 0.2]]}, {"lanes": [["Ruzzier", 1.0], ["Jones", 0.8266666666666668], ["Deangeli", 0.8], ["Mcdermott", 0.5133333333333334], ["Candussi", 0.86]], "alts": [["Ross", 0.5066666666666666], ["Galloway", 0.29333333333333333], ["Canka", 0.2]]}], [{"lanes": [["Ruzzier", 1.0], ["Ross", 0.6], ["Deangeli", 1.0], ["Mcdermott", 0.8], ["Candussi", 0.6]], "alts": [["Galloway", 0.4], ["Jones", 0.4], ["Brajkovic", 0.2]]}, {"lanes": [["Ruzzier", 1.0], ["Deangeli", 1.0], ["Galloway", 0.55], ["Mcdermott", 0.8], ["Candussi", 0.6]], "alts": [["Ross", 0.45], ["Jones", 0.4], ["Brajkovic", 0.2]]}, {"lanes": [["Ross", 0.6799999999999999], ["Ruzzier", 0.63], ["Deangeli", 0.7466666666666667], ["Mcdermott", 0.9066666666666666], ["Candussi", 0.62]], "alts": [["Galloway", 0.5933333333333334], ["Jones", 0.5866666666666667], ["Brajkovic", 0.23666666666666666]]}, {"lanes": [["Ross", 0.6733333333333333], ["Jones", 0.8733333333333333], ["Galloway", 0.7266666666666667], ["Deangeli", 0.6], ["Mcdermott", 1.0]], "alts": [["Ruzzier", 0.4], ["Brajkovic", 0.4], ["Candussi", 0.32666666666666666]]}, {"lanes": [["Ross", 0.6], ["Jones", 0.9666666666666666], ["Galloway", 0.8], ["Deangeli", 0.6], ["Mcdermott", 0.9166666666666666]], "alts": [["Ruzzier", 0.4833333333333333], ["Brajkovic", 0.4], ["Candussi", 0.23333333333333334]]}, {"lanes": [["Ross", 0.6], ["Ruzzier", 0.6], ["Galloway", 0.8], ["Jones", 0.8], ["Mcdermott", 0.8]], "alts": [["Deangeli", 0.5033333333333333], ["Candussi", 0.4966666666666667], ["Brajkovic", 0.4]]}, {"lanes": [["Ross", 0.7766666666666666], ["Galloway", 0.8566666666666667], ["Jones", 0.8], ["Deangeli", 0.5433333333333333], ["Mcdermott", 0.8]], "alts": [["Ruzzier", 0.42333333333333334], ["Candussi", 0.4], ["Brajkovic", 0.4]]}, {"lanes": [["Ross", 0.9433333333333334], ["Galloway", 1.0], ["Jones", 0.8], ["Deangeli", 0.4], ["Mcdermott", 0.8]], "alts": [["Candussi", 0.4], ["Brajkovic", 0.4], ["Ruzzier", 0.2566666666666667]]}, {"lanes": [["Ruzzier", 0.7233333333333334], ["Galloway", 0.8766666666666667], ["Jones", 0.6766666666666666], ["Mcdermott", 0.9033333333333333], ["Candussi", 0.6133333333333334]], "alts": [["Deangeli", 0.5900000000000001], ["Ross", 0.4066666666666666], ["Brajkovic", 0.21000000000000002]]}, {"lanes": [["Ruzzier", 0.8366666666666667], ["Galloway", 0.8], ["Deangeli", 0.6733333333333333], ["Mcdermott", 0.8], ["Candussi", 0.7266666666666667]], "alts": [["Jones", 0.6], ["Ross", 0.36333333333333334], ["Brajkovic", 0.2]]}]], "pos": {"Deangeli": "SG/SF", "Mcdermott": "SF", "Candussi": "C", "Ross": "PG", "Galloway": "SG", "Canka": "SG/SF", "Jones": "SG", "Paiano": "SF", "Ruzzier": "PG", "Brajkovic": "C"}, "positions": ["PG", "SG", "SF", "PF", "C"], "low": 0.2, "darkBelow": 0.55, "stops": [[247, 220, 60], [155, 207, 83], [46, 158, 91], [11, 93, 42]]};
+const quarters=document.getElementById('quarters'),tip=document.getElementById('tip');
+const colour=v=>{const t=Math.max(0,Math.min(1,(v-D.low)/(1-D.low))),n=D.stops.length-1,i=Math.min(n-1,Math.floor(t*n)),f=t*n-i,
+a=D.stops[i],b=D.stops[i+1];return'rgb('+a.map((x,k)=>Math.round(x+(b[k]-x)*f)).join(',')+')'};
+const dist=(a,b)=>{if(!a||!b)return 9;return Math.min(...a.map(x=>Math.min(...b.map(y=>Math.abs(x-y)))))};
+const idx=l=>l?l.split('/').map(p=>D.positions.indexOf(p)):null;
+D.quarters.forEach((q,qi)=>{
+ const grid=document.createElement('div');grid.className='q';
+ const lab=document.createElement('div');lab.className='ql';lab.textContent='Q'+(qi+1);
+ const head=document.createElement('div');head.className='mh';
+ for(let k=0;k<10;k++){const s=document.createElement('span');s.textContent=k+'-'+(k+1);head.appendChild(s)}
+ grid.append(document.createElement('div'),head);
+ for(let lane=0;lane<5;lane++){
+  const l=document.createElement('div');l.className='ql';l.style.fontSize='11px';grid.appendChild(l);
+  q.forEach((minute,k)=>{
+   const [name,val]=minute.lanes[lane],c=document.createElement('div');c.className='cell';c.dataset.p=name;
+   c.style.background=colour(val);c.style.color=val<D.darkBelow?'#1a1a2e':'#fff';
+   c.innerHTML='<b>'+name+'</b><span>'+Math.round(val*100)+'%'+(D.pos[name]?' · '+D.pos[name]:'')+'</span>';
+   c.onmousemove=e=>show(e,c,name,val,minute,qi*10+k);c.onmouseleave=hide;grid.appendChild(c)});
+ }
+ quarters.appendChild(grid)});
+function show(e,cell,name,val,minute,m){
+ const me=idx(D.pos[name]);
+ const alts=val>=0.995?[]:minute.alts.map(([p,s])=>({p,s,d:dist(me,idx(D.pos[p]))})).sort((a,b)=>a.d-b.d||b.s-a.s);
+ const rows=alts.map(a=>'<tr'+(a.d===0?' class="same"':'')+'><td>'+a.p+'</td><td class="p">'+(D.pos[a.p]||'')+'</td><td class="s">'+
+ Math.round(a.s*100)+'%</td><td><span class="bar" style="width:'+Math.round(a.s*60)+'px;background:'+colour(a.s)+'"></span></td></tr>').join('');
+ const qn=Math.floor(m/10)+1,mn=m%10;
+ tip.innerHTML='<h3>'+name+' '+(D.pos[name]||'')+' - '+Math.round(val*100)+'%</h3><div class="sub">Q'+qn+', minute '+mn+'-'+(mn+1)+
+ (rows?'. Alternatives, same role first:</div><table>'+rows+'</table>':'. On court in every game: no alternatives.</div>');
+ document.querySelectorAll('.cell').forEach(x=>x.classList.toggle('dim',x.dataset.p!==name));
+ tip.style.display='block';
+ const w=tip.offsetWidth,h=tip.offsetHeight;
+ tip.style.left=Math.min(e.clientX+14,innerWidth-w-8)+'px';tip.style.top=Math.min(e.clientY+14,innerHeight-h-8)+'px';}
+const fit=()=>{try{window.frameElement.style.height=document.documentElement.scrollHeight+'px'}catch(e){}};
+fit();addEventListener('resize',fit);
+function hide(){tip.style.display='none';document.querySelectorAll('.cell').forEach(x=>x.classList.remove('dim'))}
+</script></body></html>

diff --git a/notebooks/rotation_report.py b/notebooks/rotation_report.py
@@ -13,6 +13,7 @@ Samples are tiny early in the season: read the shares as tendencies.
 from __future__ import annotations
 
 import argparse
+import json
 from pathlib import Path
 import unicodedata
 
@@ -136,17 +137,19 @@ def load_positions(data: Path, team: str, competition: str, players: list[str]) 
 def assign_lanes(share: pd.DataFrame, positions: dict[str, str] | None = None) -> list[list[tuple[str, float]]]:
     """For each minute, five (player, share) pairs in lane order.
 
-    The five players with the highest share are picked; anyone who was in the top five the minute before
-    keeps his lane, newcomers take the free lanes (highest share first), so a name change in a lane is a switch.
-    At the first minute of every quarter the five are instead ordered by position (PG, SG, SF, PF, C) when `positions` is given.
+    The five players with the highest share are picked. With `positions`, every minute is ordered by position
+    (PG, SG, SF, PF, C; equal positions by share), so a bar is a role. Without it, anyone who was in the top five
+    the minute before keeps his lane and newcomers take the free lanes, so a name change in a lane is a switch.
     """
     tie_break = share.sum(axis=1)   # equal shares: the player with more minutes overall goes first
     prev: list[str | None] = [None] * LANES
     out = []
-    for i, m in enumerate(share.columns):
+    for m in share.columns:
         top = share[m].to_frame("s").assign(t=tie_break).sort_values(["s", "t"], ascending=False).head(LANES).index.tolist()
-        if positions is not None and i % MINUTES_PER_QUARTER == 0:
-            prev = sorted(top, key=lambda p: (position_rank(positions.get(p)), top.index(p)))
+        if positions is not None:
+            lanes = sorted(top, key=lambda p: (position_rank(positions.get(p)), top.index(p)))
+            out.append([(p, float(share.loc[p, m])) for p in lanes])
+            continue
         lanes: list[str | None] = [p if p in top else None for p in prev]
         for p in (p for p in top if p not in lanes):
             lanes[lanes.index(None)] = p
@@ -242,11 +245,110 @@ def fig_rotation(share: pd.DataFrame, avg: pd.DataFrame, n_games: int, team: str
 
     fig.suptitle(f"{team}: rotation by minute, {league} {stamp}  |  {n_games} games", x=0.01, ha="left", y=0.985, **SUP_KW)
     fig.text(0.01, 0.945, "Name = player most often on the court at that minute across the games; colour = share of games on court "
-             "(yellow low, dark green high); a new name in a bar = substitution;\n"
-             "positions (PG, SG, SF, PF, C) come from the roster role, so they are approximate, and order the bars at each quarter start;\n"
+             "(yellow low, dark green high);\n"
+             "bars are ordered by position (PG, SG, SF, PF, C) at every minute; positions come from the roster role, so they are approximate;\n"
              "small rows below a quarter = next most frequent players at that minute.", fontsize=8.5, color=TEXT2, va="center")
     path = out / (filename or f"rotation_{team.replace(' ', '_')}_{league.replace(' ', '')}.png")
     save_fig(fig, path); plt.close(fig)
+    return path
+
+
+HTML_TEMPLATE = """<!doctype html>
+<html lang="en"><head><meta charset="utf-8"><title>__TITLE__</title>
+<style>
+body{font:13px system-ui,sans-serif;color:#1a1a2e;margin:16px 24px;background:#fff}
+h1{font-size:20px;margin:0 0 4px}p.note{color:#555a6e;margin:0 0 14px;max-width:900px}
+.q{display:grid;grid-template-columns:36px repeat(10,1fr);gap:2px;margin-bottom:18px}
+.ql{font-weight:700;font-size:15px;color:#555a6e;display:flex;align-items:center}
+.cell{border-radius:3px;padding:5px 2px;text-align:center;cursor:default;line-height:1.25;min-width:0;overflow:hidden}
+.cell b{display:block;font-size:12px;white-space:nowrap}.cell span{font-size:10px;opacity:.9}
+.cell.dim{opacity:.25}.cell.same{outline:3px solid #1a1a2e;outline-offset:-2px}
+.mh{grid-column:2/-1;display:grid;grid-template-columns:repeat(10,1fr);color:#777;font-size:10px;text-align:center}
+#tip{position:fixed;display:none;background:#fff;border:1px solid #c9ccd6;border-radius:6px;padding:8px 10px;
+box-shadow:0 4px 16px rgba(0,0,0,.2);pointer-events:none;z-index:9;min-width:230px;max-width:290px}
+#tip h3{margin:0 0 2px;font-size:13px}#tip .sub{color:#777;font-size:11px;margin-bottom:6px}
+#tip table{border-collapse:collapse;width:100%}#tip td{padding:2px 4px;font-size:12px}
+#tip td.p{color:#555a6e;width:46px}#tip td.s{text-align:right;width:44px;font-variant-numeric:tabular-nums}
+#tip tr.same td{font-weight:700}#tip .bar{display:inline-block;height:8px;border-radius:2px;vertical-align:middle}
+.legend{display:flex;align-items:center;gap:6px;margin:0 0 14px;color:#555a6e;font-size:11px}
+.legend i{display:inline-block;width:160px;height:8px;background:linear-gradient(90deg,__GRADIENT__)}
+</style></head><body>
+<h1>__TITLE__</h1>
+<p class="note">Rows = positions (PG, SG, SF, PF, C) at every minute; colour = share of games on court. Hover a player: the
+tooltip lists the other options at that minute, same role first (then neighbouring roles), with their share of games on court.
+Positions come from the roster role, so they are approximate.</p>
+<div class="legend">20% or less <i></i> 100%</div><div id="quarters"></div><div id="tip"></div>
+<script>
+const D=__DATA__;
+const quarters=document.getElementById('quarters'),tip=document.getElementById('tip');
+const colour=v=>{const t=Math.max(0,Math.min(1,(v-D.low)/(1-D.low))),n=D.stops.length-1,i=Math.min(n-1,Math.floor(t*n)),f=t*n-i,
+a=D.stops[i],b=D.stops[i+1];return'rgb('+a.map((x,k)=>Math.round(x+(b[k]-x)*f)).join(',')+')'};
+const dist=(a,b)=>{if(!a||!b)return 9;return Math.min(...a.map(x=>Math.min(...b.map(y=>Math.abs(x-y)))))};
+const idx=l=>l?l.split('/').map(p=>D.positions.indexOf(p)):null;
+D.quarters.forEach((q,qi)=>{
+ const grid=document.createElement('div');grid.className='q';
+ const lab=document.createElement('div');lab.className='ql';lab.textContent='Q'+(qi+1);
+ const head=document.createElement('div');head.className='mh';
+ for(let k=0;k<10;k++){const s=document.createElement('span');s.textContent=k+'-'+(k+1);head.appendChild(s)}
+ grid.append(document.createElement('div'),head);
+ for(let lane=0;lane<5;lane++){
+  const l=document.createElement('div');l.className='ql';l.style.fontSize='11px';grid.appendChild(l);
+  q.forEach((minute,k)=>{
+   const [name,val]=minute.lanes[lane],c=document.createElement('div');c.className='cell';c.dataset.p=name;
+   c.style.background=colour(val);c.style.color=val<D.darkBelow?'#1a1a2e':'#fff';
+   c.innerHTML='<b>'+name+'</b><span>'+Math.round(val*100)+'%'+(D.pos[name]?' · '+D.pos[name]:'')+'</span>';
+   c.onmousemove=e=>show(e,c,name,val,minute,qi*10+k);c.onmouseleave=hide;grid.appendChild(c)});
+ }
+ quarters.appendChild(grid)});
+function show(e,cell,name,val,minute,m){
+ const me=idx(D.pos[name]);
+ const alts=val>=0.995?[]:minute.alts.map(([p,s])=>({p,s,d:dist(me,idx(D.pos[p]))})).sort((a,b)=>a.d-b.d||b.s-a.s);
+ const rows=alts.map(a=>'<tr'+(a.d===0?' class="same"':'')+'><td>'+a.p+'</td><td class="p">'+(D.pos[a.p]||'')+'</td><td class="s">'+
+ Math.round(a.s*100)+'%</td><td><span class="bar" style="width:'+Math.round(a.s*60)+'px;background:'+colour(a.s)+'"></span></td></tr>').join('');
+ const qn=Math.floor(m/10)+1,mn=m%10;
+ tip.innerHTML='<h3>'+name+' '+(D.pos[name]||'')+' - '+Math.round(val*100)+'%</h3><div class="sub">Q'+qn+', minute '+mn+'-'+(mn+1)+
+ (rows?'. Alternatives, same role first:</div><table>'+rows+'</table>':'. On court in every game: no alternatives.</div>');
+ document.querySelectorAll('.cell').forEach(x=>x.classList.toggle('dim',x.dataset.p!==name));
+ tip.style.display='block';
+ const w=tip.offsetWidth,h=tip.offsetHeight;
+ tip.style.left=Math.min(e.clientX+14,innerWidth-w-8)+'px';tip.style.top=Math.min(e.clientY+14,innerHeight-h-8)+'px';}
+const fit=()=>{try{window.frameElement.style.height=document.documentElement.scrollHeight+'px'}catch(e){}};
+fit();addEventListener('resize',fit);
+function hide(){tip.style.display='none';document.querySelectorAll('.cell').forEach(x=>x.classList.remove('dim'))}
+</script></body></html>
+"""
+
+
+def html_rotation(share: pd.DataFrame, team: str, league: str, stamp: str, n_games: int, out: Path,
+                  positions: dict[str, str] | None = None, filename: str | None = None) -> Path:
+    """Save an interactive version of the rotation chart (standalone HTML, no external files) and return its path.
+
+    Hovering a player shows the other options at that minute: players not among the five, same role first, then
+    neighbouring roles, each with the share of games on court.
+
+    Args:
+        share: Output of `minute_presence`.
+        team: Team name, used in the title and file name.
+        league: League label for the title.
+        stamp: Period description for the title.
+        n_games: Games behind the shares.
+        out: Folder that receives the HTML.
+        positions: Surname -> position label from `load_positions`.
+        filename: HTML name; default `rotation_<team>_<league>.html`.
+    """
+    positions = positions or {}
+    lanes = assign_lanes(share, positions)
+    alts = next_options(share, lanes, len(share.index))
+    minutes = [{"lanes": l, "alts": a} for l, a in zip(lanes, alts)]
+    data = {"quarters": [minutes[q * MINUTES_PER_QUARTER:(q + 1) * MINUTES_PER_QUARTER] for q in range(QUARTERS)],
+            "pos": positions, "positions": POSITIONS, "low": SHARE_LOW, "darkBelow": DARK_TEXT_BELOW,
+            "stops": [[round(255 * c) for c in CMAP(t)[:3]] for t in np.linspace(0, 1, 4)]}
+    gradient = ",".join(f"rgb({','.join(map(str, s))})" for s in data["stops"])
+    title = f"{team}: rotation by minute, {league} {stamp} | {n_games} games"
+    html = (HTML_TEMPLATE.replace("__TITLE__", title).replace("__GRADIENT__", gradient)
+            .replace("__DATA__", json.dumps(data, ensure_ascii=False)))
+    path = out / (filename or f"rotation_{team.replace(' ', '_')}_{league.replace(' ', '')}.html")
+    path.write_text(html, encoding="utf-8")
     return path
 
 
@@ -306,6 +408,7 @@ def main() -> None:
             for i in range(a.options):
                 print("  next " + " | ".join(f"{(o[i][0] + ' ' + format(o[i][1], '.0%')) if len(o) > i else '':>10}" for o in nxt[q * MINUTES_PER_QUARTER:(q + 1) * MINUTES_PER_QUARTER]))
         print(fig_rotation(share, avg, n_games, team, league, stamp, out, a.options, positions))
+        print(html_rotation(share, team, league, stamp, n_games, out, positions))
 
 
 if __name__ == "__main__":

diff --git a/notebooks/player_rotation_report.py b/notebooks/player_rotation_report.py
@@ -22,7 +22,7 @@ from matplotlib.colors import LinearSegmentedColormap, Normalize
 import lba_style
 from game_report import PERIOD_LEN, stints
 from lba_style import SUP_KW, TEXT, TEXT2, save_fig
-from rotation_report import EUROCUP_CODE, LBA, OPTIONS, fig_rotation, load_competition, load_positions, minute_presence
+from rotation_report import EUROCUP_CODE, LBA, OPTIONS, fig_rotation, html_rotation, load_competition, load_positions, minute_presence
 from weekly_config import ROOT
 
 DATA = ROOT / "data"
@@ -132,14 +132,15 @@ def fig_quarter(shares: dict[str, np.ndarray], q: int, team: str, league: str, d
 
 
 ROTATION_MINUTES_PNG = "13_rotation_by_minute.png"   # opponent page: who is on the court at each minute, with the next options
-PLAYER_ROTATION_PREFIX = "14_player_rotation_"       # opponent individual page: one chart per player
+ROTATION_MINUTES_HTML = "13_rotation_by_minute.html"  # interactive version: the opponent page shows it instead of the PNG
+PLAYER_ROTATION_PREFIX ="14_player_rotation_"       # opponent individual page: one chart per player
 TOP_PLAYERS = 10                                     # players with a chart: the ones with the most minutes in the games used
 
 
 def opponent_figures(data: Path, team: str, date: str, competition: str, out: Path) -> list[Path]:
     """Save the rotation charts of an opponent into its analysis folder, from the games of `competition` before `date`.
 
-    Writes `13_rotation_by_minute.png` (all those games) and `14_player_rotation_<Surname>.png` for the `TOP_PLAYERS`
+    Writes `13_rotation_by_minute.png` and its interactive `.html` (all those games) and `14_player_rotation_<Surname>.png` for the `TOP_PLAYERS`
     players with the most minutes in the last `LAST_GAMES` games. Nothing is written when the team has no game yet.
 
     Args:
@@ -159,7 +160,8 @@ def opponent_figures(data: Path, team: str, date: str, competition: str, out: Pa
             return []
         share, avg, n_games = minute_presence(box, pbp, team)
         positions = load_positions(data, team, competition, list(share.index))
-        paths = [fig_rotation(share, avg, n_games, team, league, stamp, out, OPTIONS, positions, ROTATION_MINUTES_PNG)]
+        paths = [fig_rotation(share, avg, n_games, team, league, stamp, out, OPTIONS, positions, ROTATION_MINUTES_PNG),
+                 html_rotation(share, team, league, stamp, n_games, out, positions, ROTATION_MINUTES_HTML)]
         games = last_games(box, team, LAST_GAMES)
         on = team_on_court(box, pbp[pbp.game_id.isin(games)], team, games)
         dates = [str(box[box.game_id == g].date.iloc[0]) for g in games]

diff --git a/notebooks/pages.py b/notebooks/pages.py
@@ -146,6 +146,10 @@ def state(meta: dict[str, str], body: str) -> str:
 def figure_md(arg: str, files: list[str]) -> str:
     """Return the markdown image of the figure `arg` (name with or without extension), or a note if the file is missing."""
     name = arg if "." in arg else f"{arg}.png"
+    interactive = Path(name).with_suffix(".html").name
+    if name.endswith(".png") and interactive in files:      # interactive version of the figure replaces the image
+        caption = re.sub(r"^\d+_", "", Path(name).stem).replace("_", " ")
+        return f'<iframe src="{interactive}" title="{caption}" class="interactive" loading="lazy" style="width:100%;height:1150px;border:0"></iframe>'
     if name not in files:
         return f"*(figure `{arg}` is not available)*"
     caption = re.sub(r"^\d+_", "", Path(name).stem).replace("_", " ")

diff --git a/notebooks/build_site.py b/notebooks/build_site.py
@@ -198,7 +198,10 @@ def copy_images(src: Path, *more: Path, dest: Path) -> list[str]:
     names = copy_photos(src, dest)
     for folder in (src, *more):
         for f in sorted(folder.glob("*")):
-            if f.suffix.lower() in IMAGES:
+            if f.suffix.lower() == ".html":      # interactive figures (standalone pages shown in an iframe)
+                shutil.copy(f, dest / f.name)
+                names.append(f.name)
+            elif f.suffix.lower() in IMAGES:
                 shutil.copy(f, dest / f.name)
                 names.append(f.name)
                 if f.suffix.lower() == ".png":
